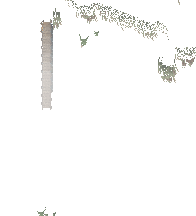
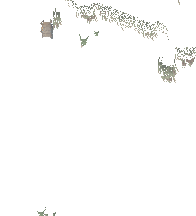
0.8.5: Spiegelung flacher Dinge (Steg) reicht nur 16 Pixel unter die Unterkante

Changed region(s): [[0.2143, 0.1667, 0.2755, 0.5]]

diff --git a/tools/world/south/test_reflect_map.py b/tools/world/south/test_reflect_map.py
@@ -28,5 +28,21 @@ class TestReflectMap(unittest.TestCase):
         self.assertEqual(first, 7, 'lying in the water (stored 1 = height 0): right under its edge')
 
 
+    def test_a_long_jetty_is_mirrored_only_a_short_way(self):
+        # Philip 0.8.4: the jetty's reflection ran down almost the whole lake - each of its 80 rows was
+        # mirrored at the end, so row 80 lay 80 px away. A flat thing's reflection reaches ~16 px.
+        H, W = 120, 7
+        low = np.zeros((H, W), np.uint8)
+        low[10:90, 3] = 3                                       # a jetty: 80 rows, standing 2 px over the water
+        ground = np.full((H, W, 3), 120, np.uint8)
+        water = np.ones((H, W), bool)
+        water[low > 0] = False
+        out = reflect_map.bake(H, W, water, np.zeros((H, W, 4), np.uint8), np.zeros((H, W), np.uint8),
+                               low, ground, [])
+        rows = np.nonzero(out[:, 3, 3] > 0)[0]
+        self.assertGreater(len(rows), 4, 'something is mirrored')
+        self.assertLessEqual(rows.max() - 89, reflect_map.FLAT_REACH + 3, 'the reflection stops near the end')
+
+
 if __name__ == '__main__':
     unittest.main()

diff --git a/tools/world/south/reflect_map.py b/tools/world/south/reflect_map.py
@@ -9,6 +9,8 @@ import numpy as np
 import bendcode
 import reflect_anim as ra
 
+FLAT_REACH = 16            # a flat thing (jetty, bridge) is mirrored this far below its lower edge, no further
+
 
 def bake(H, W, open_water, flowers, bend, low, ground, sprites):
     """open_water: (H, W) bool; flowers RGBA + bend: the swaying layer and its heights; low + ground: the flat
@@ -26,6 +28,8 @@ def bake(H, W, open_water, flowers, bend, low, ground, sprites):
     key = lab[y, x].astype(np.int64) * W + x
     bottom = np.zeros(key.max() + 1, np.int64)
     np.maximum.at(bottom, key, y)
+    near = bottom[key] + low[y, x].astype(int) - 1 - y <= FLAT_REACH    # a long jetty: its far end is not mirrored 80 px away
+    x, y, key = x[near], y[near], key[near]
     xs.append(x); ys.append(y); cols.append(ground[y, x, :3]); feet.append(bottom[key] + low[y, x].astype(int) - 1)
     for rgba, sx, sy, foot in sprites:
         y, x = np.nonzero(rgba[..., 3] > 0)

diff --git a/tools/world/south/reflect_anim.py b/tools/world/south/reflect_anim.py
@@ -29,7 +29,7 @@ def upright_from_low(ground, low, x0, y0):
         k = (lab[y, x], x)
         bottom[k] = max(bottom.get(k, y), y)
     return [(x0 + x, y0 + y, ground[y, x].astype(float), y0 + bottom[(lab[y, x], x)] + int(low[y, x]) - 1)
-            for y, x in zip(ys, xs)]
+            for y, x in zip(ys, xs) if bottom[(lab[y, x], x)] + int(low[y, x]) - 1 - y <= 16]   # as reflect_map.FLAT_REACH
 
 
 def upright_from_sprite(pic, sx, sy, foot):
